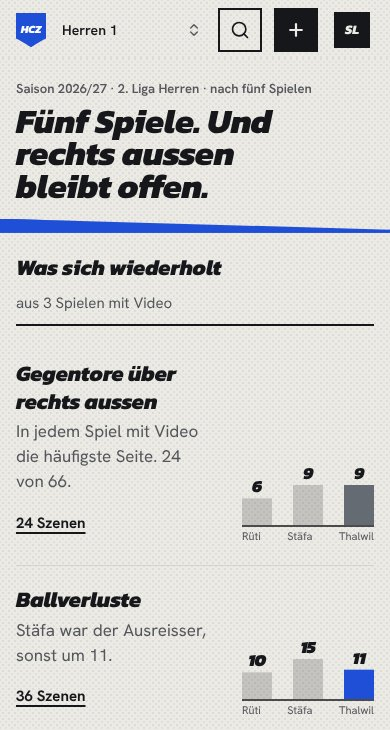
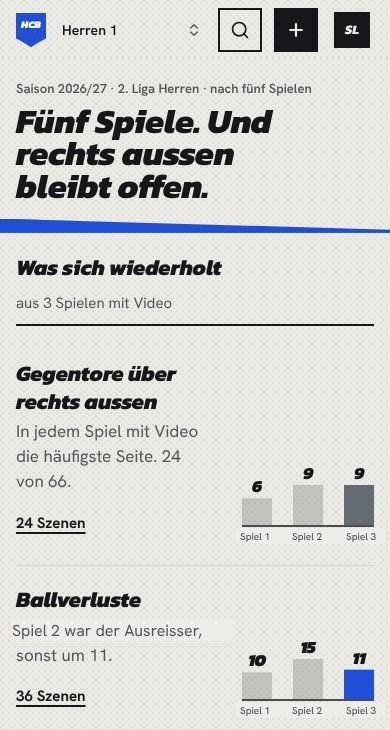
site: invented club names in the app pictures, honest principle on manual work
- the four app screenshots show HC Beispiel and TV Muster (and «Spiel 1 to 3») instead of
  real-sounding clubs and a real hall; names covered in the app's typefaces
- «Wenig Handarbeit: ein paar Minuten bestätigen statt Stunden schneiden» replaces
  «Ohne Handarbeit», which contradicted the confirming step (de, fr, en)

Claude-Session: https://claude.ai/code/session_01H3gog8VHertHihnwrS8RuH

diff --git a/apps/site/src/messages/fr.ts b/apps/site/src/messages/fr.ts
@@ -439,7 +439,7 @@ const fr: Messages = {
     principlesTitle: "Ce à quoi nous tenons",
     principles: [
       { title: "Le résultat avant la technique", text: "Tu vois ce qui en ressort. Là où l'analyse hésite, elle te le demande au lieu de le cacher." },
-      { title: "Sans travail manuel", text: "Chaque page est utile, même si tu n'as rien saisi." },
+      { title: "Peu de travail manuel", text: "Quelques minutes pour confirmer au lieu d'heures de découpage. Rien à taper." },
       { title: "Seulement ce qui est mesuré", text: "Ce que l'analyse ne mesure pas, nous ne le dessinons pas. L'estimé s'appelle « estimé »." },
     ],
     whoTitle: "Qui nous sommes",

diff --git a/apps/site/src/messages/de.ts b/apps/site/src/messages/de.ts
@@ -437,7 +437,7 @@ const de = {
     principlesTitle: "Woran wir uns halten",
     principles: [
       { title: "Ergebnis vor Technik", text: "Du siehst, was herauskommt. Wo die Analyse unsicher ist, fragt sie dich, statt es zu verstecken." },
-      { title: "Ohne Handarbeit", text: "Jede Seite ist nützlich, auch wenn du nichts eingetippt hast." },
+      { title: "Wenig Handarbeit", text: "Ein paar Minuten bestätigen statt Stunden schneiden. Eintippen musst du nichts." },
       { title: "Nur, was gemessen ist", text: "Was die Analyse nicht misst, zeichnen wir nicht. Geschätztes heisst «geschätzt»." },
     ],
     whoTitle: "Wer wir sind",

diff --git a/apps/site/src/messages/en.ts b/apps/site/src/messages/en.ts
@@ -439,7 +439,7 @@ const en: Messages = {
     principlesTitle: "What we stick to",
     principles: [
       { title: "Result before machine", text: "You see what came out. Where the analysis is unsure, it asks you instead of hiding it." },
-      { title: "No manual work", text: "Every page is useful even if you have typed nothing." },
+      { title: "Little manual work", text: "A few minutes of confirming instead of hours of cutting. No typing." },
       { title: "Only what is measured", text: "What the analysis does not measure, we do not draw. Estimated says \"estimated\"." },
     ],
     whoTitle: "Who we are",
